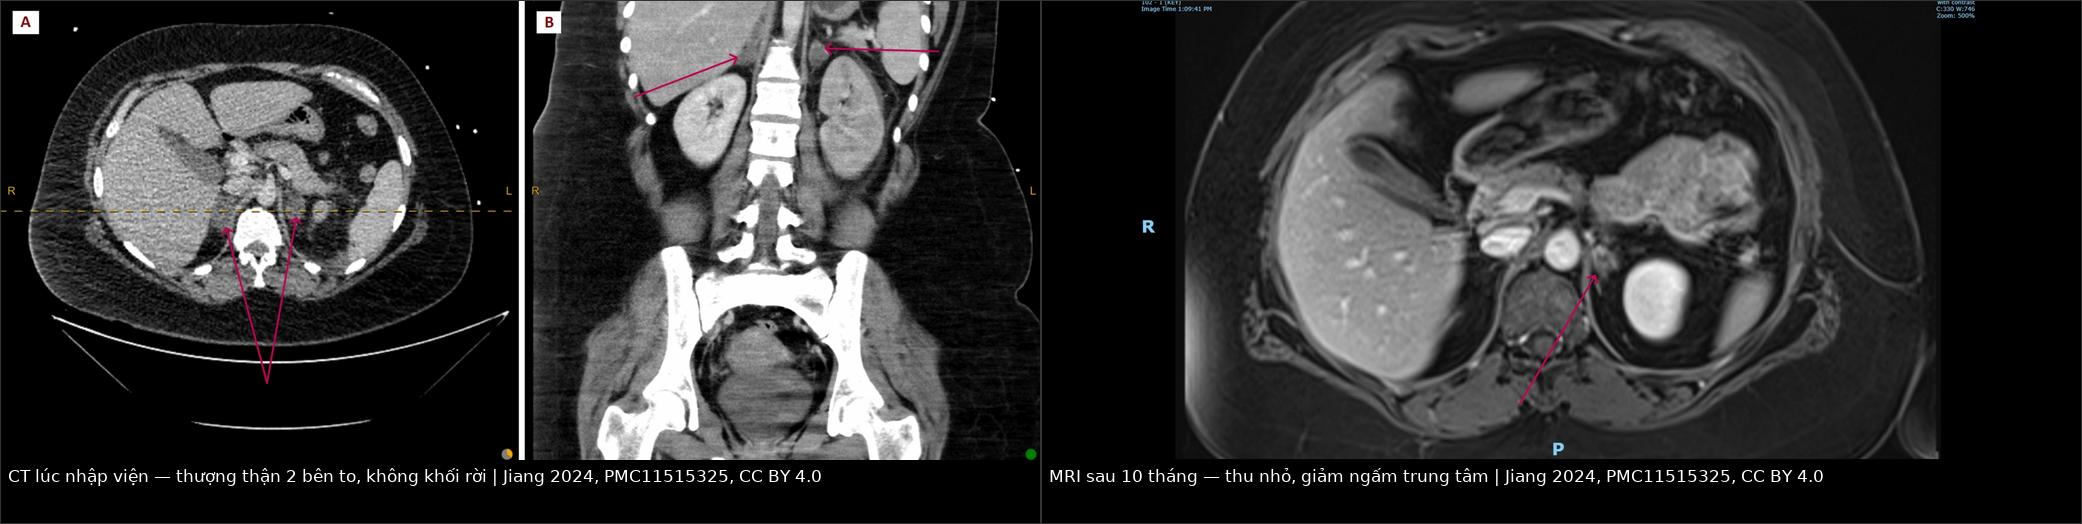
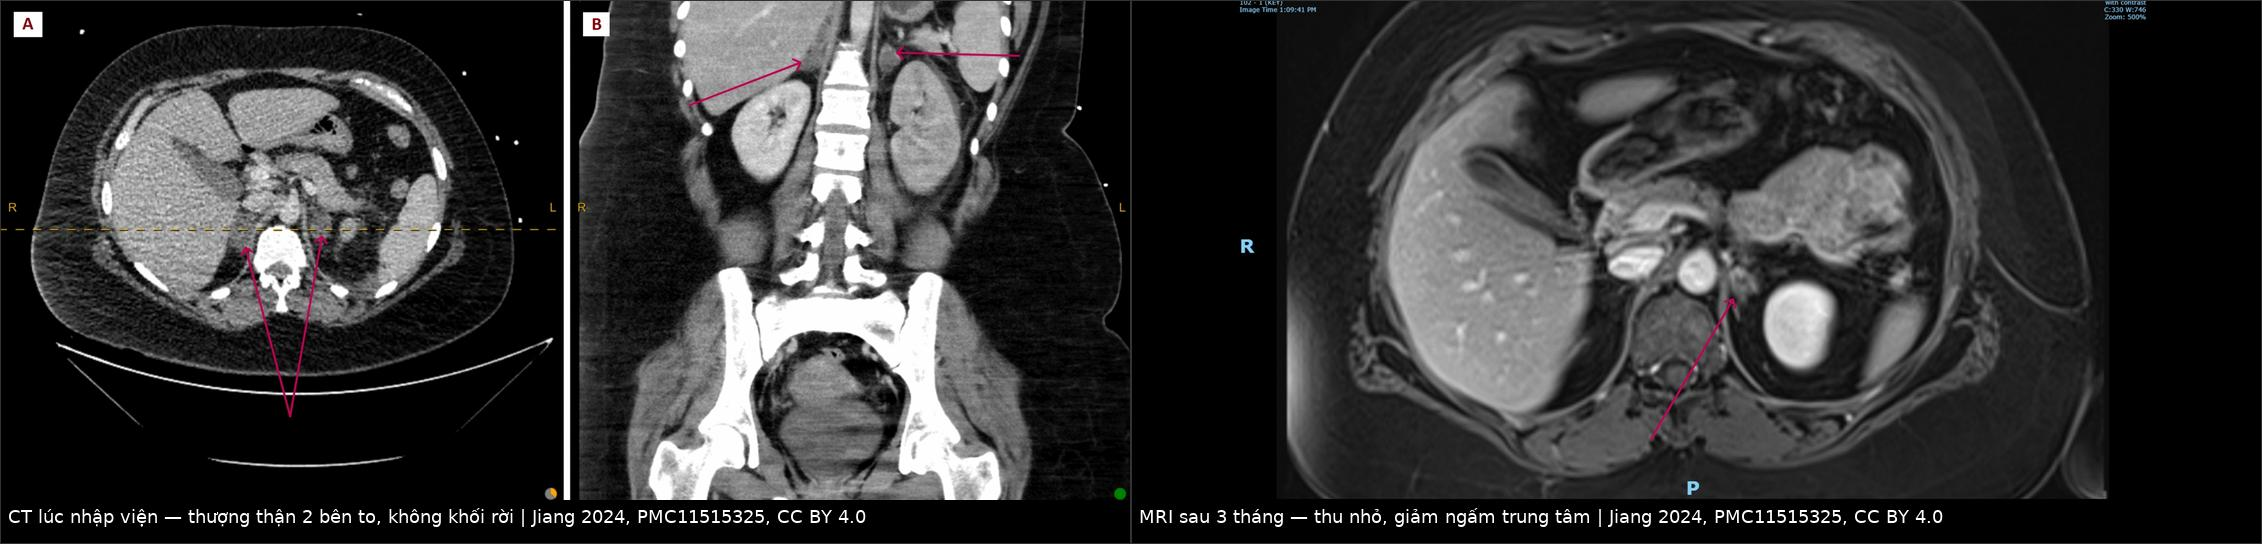
fix(1475): sửa số liệu theo nguồn — 6 ca tự phát chia đều 3 phải/3 trái; MRI theo dõi 3 tháng (không phải 10); vẽ lại composite

diff --git a/1475-xuat-huyet-thuong-than-hai-ben/index.html b/1475-xuat-huyet-thuong-than-hai-ben/index.html
@@ -1,5 +1,5 @@
 <!doctype html>
-<!-- lesson-sha256: c70722b7bd88fa4745af398668e81f858cef3f2b7ee84a96a90b3d7f9546653b -->
+<!-- lesson-sha256: 3c0accbc5233053de7b3ee017b10f2950bfe09a8b9d541ef8f2815c59a997c14 -->
 <html lang="vi">
 <head>
 <meta charset="utf-8">
@@ -74,7 +74,7 @@ Bài chốt <strong>bốn con số</strong>: <strong>(1)</strong> máu tụ cấ
 <ul>
 <li><strong>Cấu trúc mạch máu bất đối xứng:</strong> tuyến chỉ <strong>4–6 g</strong> nhưng nhận <strong>ba nguồn động mạch</strong> — <strong>động mạch thượng thận trên</strong> (từ động mạch hoành dưới), <strong>giữa</strong> (trực tiếp từ động mạch chủ), <strong>dưới</strong> (từ động mạch thận) — mỗi nguồn chia <strong>50–60 nhánh</strong> đổ vào vỏ tuyến xốp. Trong khi đó <strong>chỉ có MỘT tĩnh mạch trung tâm</strong> thoát máu: bên phải đổ <strong>trực tiếp vào tĩnh mạch chủ dưới</strong> bằng một đoạn rất ngắn, bên trái đổ vào <strong>tĩnh mạch thận trái</strong>.</li>
 <li><strong>TẠI SAO hệ thống này dễ vỡ:</strong> lưu lượng vào lớn, lưu lượng ra qua một ống nhỏ → khoang giữa mao mạch và tĩnh mạch là &quot;đập thủy lợi&quot;. Khi <strong>áp lực tĩnh mạch chủ dưới tăng</strong> (thở máy áp lực cao, suy tim phải, chèn ép), khi <strong>tĩnh mạch thận bị huyết khối</strong>, hoặc khi <strong>vi huyết khối trong DIC</strong> bịt mao mạch, máu ứ lại trong tủy → <strong>nhồi máu xuất huyết</strong> (hemorrhagic infarction), không phải &quot;vỡ mạch đơn thuần&quot;.</li>
-<li><strong>TẠI SAO bên phải nhiều hơn:</strong> thượng thận phải <strong>kẹp giữa gan và cột sống</strong>, tĩnh mạch ngắn đổ thẳng vào tĩnh mạch chủ dưới → chịu <strong>tăng áp tĩnh mạch đột ngột</strong> và lực <strong>cắt (shear)</strong> khi giảm tốc rõ hơn bên trái. Loạt đa chấn thương: <strong>77% máu tụ một bên ở bên phải</strong> (PMC12464106); loạt xuất huyết tự phát: <strong>4/6 ca</strong> (PMC6383530).</li>
+<li><strong>TẠI SAO bên phải nhiều hơn:</strong> thượng thận phải <strong>kẹp giữa gan và cột sống</strong>, tĩnh mạch ngắn đổ thẳng vào tĩnh mạch chủ dưới → chịu <strong>tăng áp tĩnh mạch đột ngột</strong> và lực <strong>cắt (shear)</strong> khi giảm tốc rõ hơn bên trái. Loạt đa chấn thương: <strong>77% máu tụ một bên ở bên phải</strong> (PMC12464106). <strong>Phản biện:</strong> ưu thế phải <strong>không áp dụng cho nhóm tự phát</strong> — loạt 6 ca xuất huyết tự phát chia đều <strong>3 phải/3 trái</strong>, tất cả một bên, đường kính tới <strong>12,2 cm</strong>, mật độ <strong>45–70 HU</strong>, không ngấm thuốc, không vôi hóa (PMC6383530).</li>
 <li><strong>TẠI SAO hai bên mới gây suy thượng thận:</strong> vỏ thượng thận có <strong>dự trữ chức năng rất lớn</strong> — cắt một bên hoặc xuất huyết một bên <strong>hầu như không gây suy</strong>; phải phá hủy <strong>phần lớn cả hai vỏ</strong> mới làm cortisol tụt. Đây là lý do <strong>hình ảnh một bên không được phép kết luận suy thượng thận</strong>, còn <strong>hai bên + sốc</strong> thì phải điều trị ngay.</li>
 </ul>
 <h3 id="1-2-vi-sao-cuc-mau-tu-quot-tang-dam-do-ma-khong-ngam-thuoc-q">1.2 Vì sao cục máu tụ &quot;tăng đậm độ mà không ngấm thuốc&quot; — vật lý của HU</h3>
@@ -171,8 +171,8 @@ Bài chốt <strong>bốn con số</strong>: <strong>(1)</strong> máu tụ cấ
 <td>IGRA/PCR, MRI</td>
 </tr>
 </tbody></table>
-<p><img loading="lazy" decoding="async" src="https://img.matcauvong.com/1475-xuat-huyet-thuong-than-hai-ben/images/composite_1475_bah-cao-mau.jpg" alt="CT lúc nhập viện (trái) và MRI sau 10 tháng (phải) của cùng một ca BAH sau sinh">
-<em>Trái: hai thượng thận to, không có khối rời — hình &quot;adreniform&quot; điển hình của xuất huyết. Phải: sau 10 tháng tuyến nhỏ lại, giảm ngấm trung tâm (còn di chứng xuất huyết). Nguồn: J Med Case Rep 2024 (PMC11515325), CC BY 4.0; ảnh ghép letterbox bằng <code>tools/make_composite.py</code>.</em></p>
+<p><img loading="lazy" decoding="async" src="https://img.matcauvong.com/1475-xuat-huyet-thuong-than-hai-ben/images/composite_1475_bah-cao-mau.jpg" alt="CT lúc nhập viện (trái) và MRI sau 3 tháng (phải) của cùng một ca BAH sau sinh">
+<em>Trái: hai thượng thận to, không có khối rời — hình &quot;adreniform&quot; điển hình của xuất huyết. Phải: sau <strong>3 tháng</strong> tuyến nhỏ lại/teo, còn giảm ngấm trung tâm (di chứng xuất huyết). Nguồn: J Med Case Rep 2024 (PMC11515325), CC BY 4.0; ảnh ghép letterbox bằng <code>tools/make_composite.py</code>.</em></p>
 <ul>
 <li><strong>Đọc HU đúng cách:</strong> đặt ROI (vùng quan tâm) ở <strong>phần đặc nhất</strong>, tránh viền vỏ và mỡ quanh; đo <strong>cả hai bên</strong>, ghi <strong>HU + kích thước 3 chiều</strong>; nếu <strong>10–40 HU</strong> thì phải làm <strong>MRI hoặc chụp lại 6–12 tuần</strong>, không kết luận.</li>
 <li><strong>Đọc &quot;không ngấm&quot; đúng cách:</strong> so <strong>cùng một ROI</strong> giữa thì trước tiêm và thì cửa/muộn; <strong>tăng &lt; 10 HU** được coi là không ngấm; **tăng &gt; 20 HU</strong> là mô sống.</li>
@@ -231,8 +231,8 @@ Bài chốt <strong>bốn con số</strong>: <strong>(1)</strong> máu tụ cấ
 <li>Phản biện: <strong>thoát mạch đơn thuần chưa đủ chỉ định</strong> — trong loạt này chỉ định dựa trên <strong>huyết động (MAP &lt; 70)</strong> và diễn tiến; có ca MAP ≥ 70 vẫn phải nút mạch muộn.</li>
 <li>Nguồn: CVIR Endovasc 2026 (PMC13469033), CC BY 4.0.</details></li>
 </ul>
-<p><strong>Ca 2 — Nữ 27 tuổi, 17 ngày sau sinh, sốt và đau hông lưng, tụt áp tư thế. Nhìn CT rồi ghép với MRI sau 10 tháng.</strong></p>
-<p><img loading="lazy" decoding="async" src="https://img.matcauvong.com/1475-xuat-huyet-thuong-than-hai-ben/images/composite_1475_bah-cao-mau.jpg" alt="Ca 2 — CT lúc nhập viện và MRI sau 10 tháng"></p>
+<p><strong>Ca 2 — Nữ 27 tuổi, 17 ngày sau sinh, sốt và đau hông lưng, tụt áp tư thế. Nhìn CT rồi ghép với MRI sau 3 tháng.</strong></p>
+<p><img loading="lazy" decoding="async" src="https://img.matcauvong.com/1475-xuat-huyet-thuong-than-hai-ben/images/composite_1475_bah-cao-mau.jpg" alt="Ca 2 — CT lúc nhập viện và MRI sau 3 tháng"></p>
 <ul>
 <li>Gợi ý: sau sinh, có huyết khối tĩnh mạch thận trái và thuyên tắc phổi; CT đầu tiên được đọc là &quot;thượng thận to không rõ nguyên nhân&quot;.</li>
 <li>Câu hỏi: vì sao <strong>không có khối rời</strong> mà vẫn là xuất huyết? Cần xét nghiệm gì trước khi truyền hydrocortison?</li>
@@ -240,7 +240,7 @@ Bài chốt <strong>bốn con số</strong>: <strong>(1)</strong> máu tụ cấ
 <details><summary><b>Bấm để hiện đáp án (findings + chẩn đoán)</b></summary>
 
 <ul>
-<li>Dấu hiệu: <strong>hai thượng thận to giữ hình tuyến, không có khối tròn</strong>; MRI sau 10 tháng: <strong>tuyến nhỏ lại, giảm ngấm trung tâm</strong> — phù hợp <strong>máu tụ tiêu dần</strong> chứ không phải u.</li>
+<li>Dấu hiệu: <strong>hai thượng thận to giữ hình tuyến, không có khối tròn</strong>; MRI sau 3 tháng: <strong>tuyến nhỏ lại/teo, còn giảm ngấm trung tâm</strong> — phù hợp <strong>máu tụ tiêu dần</strong> chứ không phải u.</li>
 <li>Chẩn đoán: <strong>xuất huyết thượng thận hai bên sau sinh, kèm huyết khối tĩnh mạch thận và suy thượng thận nguyên phát</strong>.</li>
 <li>Vì sao: tăng áp tĩnh mạch + tăng đông sau sinh làm <strong>nhồi máu xuất huyết</strong> cả hai tuyến; hình &quot;adreniform&quot; là dấu chốt, không cần khối.</li>
 <li>Xét nghiệm: <strong>cortisol sáng + ACTH trước liều hydrocortison</strong> nếu huyết động cho phép; sau đó <strong>Synacthen</strong> xác nhận; theo dõi <strong>3–6 tháng/lần trong 2 năm</strong>.</li>

diff --git a/1475-xuat-huyet-thuong-than-hai-ben/lesson.md b/1475-xuat-huyet-thuong-than-hai-ben/lesson.md
@@ -23,7 +23,7 @@ research_asof: "2026-11"
 
 - **Cấu trúc mạch máu bất đối xứng:** tuyến chỉ **4–6 g** nhưng nhận **ba nguồn động mạch** — **động mạch thượng thận trên** (từ động mạch hoành dưới), **giữa** (trực tiếp từ động mạch chủ), **dưới** (từ động mạch thận) — mỗi nguồn chia **50–60 nhánh** đổ vào vỏ tuyến xốp. Trong khi đó **chỉ có MỘT tĩnh mạch trung tâm** thoát máu: bên phải đổ **trực tiếp vào tĩnh mạch chủ dưới** bằng một đoạn rất ngắn, bên trái đổ vào **tĩnh mạch thận trái**.
 - **TẠI SAO hệ thống này dễ vỡ:** lưu lượng vào lớn, lưu lượng ra qua một ống nhỏ → khoang giữa mao mạch và tĩnh mạch là "đập thủy lợi". Khi **áp lực tĩnh mạch chủ dưới tăng** (thở máy áp lực cao, suy tim phải, chèn ép), khi **tĩnh mạch thận bị huyết khối**, hoặc khi **vi huyết khối trong DIC** bịt mao mạch, máu ứ lại trong tủy → **nhồi máu xuất huyết** (hemorrhagic infarction), không phải "vỡ mạch đơn thuần".
-- **TẠI SAO bên phải nhiều hơn:** thượng thận phải **kẹp giữa gan và cột sống**, tĩnh mạch ngắn đổ thẳng vào tĩnh mạch chủ dưới → chịu **tăng áp tĩnh mạch đột ngột** và lực **cắt (shear)** khi giảm tốc rõ hơn bên trái. Loạt đa chấn thương: **77% máu tụ một bên ở bên phải** (PMC12464106); loạt xuất huyết tự phát: **4/6 ca** (PMC6383530).
+- **TẠI SAO bên phải nhiều hơn:** thượng thận phải **kẹp giữa gan và cột sống**, tĩnh mạch ngắn đổ thẳng vào tĩnh mạch chủ dưới → chịu **tăng áp tĩnh mạch đột ngột** và lực **cắt (shear)** khi giảm tốc rõ hơn bên trái. Loạt đa chấn thương: **77% máu tụ một bên ở bên phải** (PMC12464106). **Phản biện:** ưu thế phải **không áp dụng cho nhóm tự phát** — loạt 6 ca xuất huyết tự phát chia đều **3 phải/3 trái**, tất cả một bên, đường kính tới **12,2 cm**, mật độ **45–70 HU**, không ngấm thuốc, không vôi hóa (PMC6383530).
 - **TẠI SAO hai bên mới gây suy thượng thận:** vỏ thượng thận có **dự trữ chức năng rất lớn** — cắt một bên hoặc xuất huyết một bên **hầu như không gây suy**; phải phá hủy **phần lớn cả hai vỏ** mới làm cortisol tụt. Đây là lý do **hình ảnh một bên không được phép kết luận suy thượng thận**, còn **hai bên + sốc** thì phải điều trị ngay.
 
 ### 1.2 Vì sao cục máu tụ "tăng đậm độ mà không ngấm thuốc" — vật lý của HU
@@ -66,8 +66,8 @@ Mẫu hình cần nhận: **tuyến thượng thận to, giữ hình "thượng 
 | **Nhồi máu thượng thận** | Không ngấm, **< 40 HU**, hình nêm/không đều; bối cảnh APS, sốc | **Không ngấm + mật độ thấp + bối cảnh huyết khối** | **≥ 40 HU** → xuất huyết | MRI T1 (máu), CTA tĩnh mạch thận/thượng thận |
 | **Lao thượng thận** | Hai bên, **vôi hóa**, teo dần, có thể to giai đoạn đầu | **Vôi hóa hai bên + teo + bối cảnh lao** | **Máu tụ cấp ≥ 40 HU, không vôi hóa** | IGRA/PCR, MRI |
 
-![CT lúc nhập viện (trái) và MRI sau 10 tháng (phải) của cùng một ca BAH sau sinh](images/composite_1475_bah-cao-mau.jpg)
-*Trái: hai thượng thận to, không có khối rời — hình "adreniform" điển hình của xuất huyết. Phải: sau 10 tháng tuyến nhỏ lại, giảm ngấm trung tâm (còn di chứng xuất huyết). Nguồn: J Med Case Rep 2024 (PMC11515325), CC BY 4.0; ảnh ghép letterbox bằng `tools/make_composite.py`.*
+![CT lúc nhập viện (trái) và MRI sau 3 tháng (phải) của cùng một ca BAH sau sinh](images/composite_1475_bah-cao-mau.jpg)
+*Trái: hai thượng thận to, không có khối rời — hình "adreniform" điển hình của xuất huyết. Phải: sau **3 tháng** tuyến nhỏ lại/teo, còn giảm ngấm trung tâm (di chứng xuất huyết). Nguồn: J Med Case Rep 2024 (PMC11515325), CC BY 4.0; ảnh ghép letterbox bằng `tools/make_composite.py`.*
 
 - **Đọc HU đúng cách:** đặt ROI (vùng quan tâm) ở **phần đặc nhất**, tránh viền vỏ và mỡ quanh; đo **cả hai bên**, ghi **HU + kích thước 3 chiều**; nếu **10–40 HU** thì phải làm **MRI hoặc chụp lại 6–12 tuần**, không kết luận.
 - **Đọc "không ngấm" đúng cách:** so **cùng một ROI** giữa thì trước tiêm và thì cửa/muộn; **tăng < 10 HU** được coi là không ngấm; **tăng > 20 HU** là mô sống.
@@ -131,16 +131,16 @@ flowchart TD
 - Nguồn: CVIR Endovasc 2026 (PMC13469033), CC BY 4.0.
 </details>
 
-**Ca 2 — Nữ 27 tuổi, 17 ngày sau sinh, sốt và đau hông lưng, tụt áp tư thế. Nhìn CT rồi ghép với MRI sau 10 tháng.**
+**Ca 2 — Nữ 27 tuổi, 17 ngày sau sinh, sốt và đau hông lưng, tụt áp tư thế. Nhìn CT rồi ghép với MRI sau 3 tháng.**
 
-![Ca 2 — CT lúc nhập viện và MRI sau 10 tháng](images/composite_1475_bah-cao-mau.jpg)
+![Ca 2 — CT lúc nhập viện và MRI sau 3 tháng](images/composite_1475_bah-cao-mau.jpg)
 
 - Gợi ý: sau sinh, có huyết khối tĩnh mạch thận trái và thuyên tắc phổi; CT đầu tiên được đọc là "thượng thận to không rõ nguyên nhân".
 - Câu hỏi: vì sao **không có khối rời** mà vẫn là xuất huyết? Cần xét nghiệm gì trước khi truyền hydrocortison?
 
 <details><summary><b>Bấm để hiện đáp án (findings + chẩn đoán)</b></summary>
 
-- Dấu hiệu: **hai thượng thận to giữ hình tuyến, không có khối tròn**; MRI sau 10 tháng: **tuyến nhỏ lại, giảm ngấm trung tâm** — phù hợp **máu tụ tiêu dần** chứ không phải u.
+- Dấu hiệu: **hai thượng thận to giữ hình tuyến, không có khối tròn**; MRI sau 3 tháng: **tuyến nhỏ lại/teo, còn giảm ngấm trung tâm** — phù hợp **máu tụ tiêu dần** chứ không phải u.
 - Chẩn đoán: **xuất huyết thượng thận hai bên sau sinh, kèm huyết khối tĩnh mạch thận và suy thượng thận nguyên phát**.
 - Vì sao: tăng áp tĩnh mạch + tăng đông sau sinh làm **nhồi máu xuất huyết** cả hai tuyến; hình "adreniform" là dấu chốt, không cần khối.
 - Xét nghiệm: **cortisol sáng + ACTH trước liều hydrocortison** nếu huyết động cho phép; sau đó **Synacthen** xác nhận; theo dõi **3–6 tháng/lần trong 2 năm**.

diff --git a/1475-xuat-huyet-thuong-than-hai-ben/sources.md b/1475-xuat-huyet-thuong-than-hai-ben/sources.md
@@ -6,9 +6,9 @@ Thu thập theo `AGENTS.md`: chỉ dùng nguồn mở truy cập được, ghi r
 
 1. **Tổng quan BAH trong SLE/APS (2025)** — *Cureus* 2025, DOI 10.7759/cureus.98743, PMCID **PMC12779288**, CC BY 4.0. Số liệu dùng: cơ chế **"vascular dam"** (3 động mạch – 1 tĩnh mạch trung tâm); **0,4%** bệnh nhân APS phát triển suy thượng thận nguyên phát, **10–26%** trong APS thể bão táp; xử trí **hydrocortison 100 mg TM rồi 50–100 mg mỗi 6–8 giờ**, NaCl 0,9%, fludrocortison; **warfarin INR 2–3 ưu tiên hơn DOAC** ở APS ba kháng thể dương; theo dõi **cortisol/ACTH 3–6 tháng/lần trong 2 năm đầu, sau đó hằng năm**; phần lớn sống sót **phải thay thế hormone suốt đời**.
 2. **Đoàn hệ CT 1.373 ca đa chấn thương (2025)** — *Endocrine* 2025, DOI 10.1007/s12020-025-04321-9, PMCID **PMC12464106**, CC BY 4.0. Số liệu dùng: **máu tụ thượng thận 5,0%** (68/1.373; **10% hai bên**, **77% bên phải**); tổn thương dạng u **2,7%** (37/1.373); **chỉ 27%** tổn thương dạng u và **58%** máu tụ một bên được nhắc trong báo cáo (**42% máu tụ một bên không được báo cáo**); theo dõi trung bình **75 tháng**, **không ca nào phải mổ**, **6%** được xét hormone.
-3. **Loạt 6 ca xuất huyết thượng thận tự phát có HU (2019)** — *Radiologia Brasileira* 2019, DOI 10.1590/0100-3984.2018.0041, PMCID **PMC6383530**, CC BY-NC-ND 4.0. Số liệu dùng: định nghĩa **xuất huyết = mật độ trước tiêm ≥ 40 HU HOẶC không ngấm thuốc sau tiêm**; các ca đo **65 HU**, **45 HU**, **53 HU**; **4/6 ca bên phải**; MRI/CT theo dõi.
+3. **Loạt 6 ca xuất huyết thượng thận tự phát có HU (2019)** — *Radiologia Brasileira* 2019, DOI 10.1590/0100-3984.2018.0041, PMCID **PMC6383530**, CC BY-NC-ND 4.0. Số liệu dùng: định nghĩa **xuất huyết = mật độ trước tiêm ≥ 40 HU HOẶC không ngấm thuốc sau tiêm**; mật độ **45–70 HU**, đường kính tới **12,2 cm**, không vôi hóa; **6 ca đều MỘT bên, chia đều 3 phải/3 trái** (không có ưu thế bên phải trong nhóm tự phát); MRI/CT theo dõi.
 4. **Loạt 8 ca nút mạch do chấn thương + tổng quan (2026)** — *CVIR Endovascular* 2026, DOI 10.1186/s42155-026-00756-x, PMCID **PMC13469033**, CC BY 4.0. Số liệu dùng: tổn thương thượng thận do chấn thương **0,5–4%** ca nhập viện nhưng **tới 26%** ca tử vong do chấn thương ngực–bụng nặng (mổ tử thi); tử vong **10–33%**; cơ chế **chèn ép – tăng áp tĩnh mạch chủ dưới – huyết khối – lực cắt**; **thoát mạch + MAP < 70 mmHg** là ngưỡng can thiệp được nhắc nhiều nhất nhưng **có ca MAP ≥ 70 mmHg vẫn phải nút mạch muộn**; biến thiên giải phẫu động mạch thượng thận.
-5. **Ca BAH sau sinh có CT + MRI theo dõi (2024)** — *Journal of Medical Case Reports* 2024, DOI 10.1186/s13256-024-04834-3, PMCID **PMC11515325**, CC BY 4.0. Số liệu dùng: nữ **27 tuổi**, **17 ngày sau sinh**, thượng thận hai bên **to không có khối rời**, kèm **huyết khối tĩnh mạch thận trái** và thuyên tắc phổi; chẩn đoán ban đầu bị bỏ qua; **hydrocortison TM** rồi thay thế uống + chống đông; MRI sau **10 tháng** giảm ngấm trung tâm.
+5. **Ca BAH sau sinh có CT + MRI theo dõi (2024)** — *Journal of Medical Case Reports* 2024, DOI 10.1186/s13256-024-04834-3, PMCID **PMC11515325**, CC BY 4.0. Số liệu dùng: nữ **27 tuổi**, **17 ngày sau sinh**, thượng thận hai bên **to không có khối rời**, kèm **huyết khối tĩnh mạch thận trái** và thuyên tắc phổi; chẩn đoán ban đầu bị bỏ qua; **hydrocortison TM** rồi thay thế uống + chống đông; MRI theo dõi sau **3 tháng** thấy tuyến nhỏ lại/teo, còn giảm ngấm trung tâm (Fig. 3).
 6. **Ca BAH 76 tuổi — máu tụ tiêu nhưng chức năng không hồi phục (2020)** — *Cureus* 2020, DOI 10.7759/cureus.8596, PMCID **PMC7294864**, CC BY 4.0. Số liệu dùng: CT xác nhận hai bên; cortisol thấp không phù hợp với stress; **CT lặp sau 10 tháng thấy máu tụ tiêu** nhưng **chức năng thượng thận vẫn suy**.
 7. **Ca BAH do COVID-19 có Synacthen bình thường (2020)** — *BMJ Case Reports* 2020, DOI 10.1136/bcr-2020-239643, PMCID **PMC7705581**. Dùng làm **phản biện**: không phải mọi BAH đều gây suy thượng thận.
 8. **WFS sau vết cắn chó ở người cắt lách (2023)** — *International Journal of Emergency Medicine* 2023, DOI 10.1186/s12245-023-00483-3, PMCID **PMC9947879**, CC BY 4.0. Số liệu dùng: WFS = sốc nhiễm khuẩn + DIC + xuất huyết thượng thận hai bên; tác nhân **Capnocytophaga canimorsus**; liên hệ **MALS**.

diff --git a/1475-xuat-huyet-thuong-than-hai-ben/images/CREDITS.md b/1475-xuat-huyet-thuong-than-hai-ben/images/CREDITS.md
@@ -15,5 +15,5 @@ Mỗi ảnh ghi rõ: file trong repo, hình gốc, bài gốc (PMCID/DOI), giấ
 - Bốn ảnh từ **PMC13469033** và **PMC11515325** là **CC BY 4.0** → được dùng và tạo phái sinh, kèm ghi công.
 - Ảnh mô học Wikimedia là **CC BY-SA 4.0** → **không** đưa vào ảnh ghép có giấy phép khác; hiển thị **nguyên bản**.
 - Ảnh CT của **PMC13469033** là ảnh **thang xám** do tạp chí xuất bản; không chuyển sang JPEG màu, không tăng tương phản.
-- Ảnh ghép dùng **cùng một bệnh nhân** ở hai thời điểm (lúc nhập viện và sau 10 tháng), không phải hai ca.
+- Ảnh ghép dùng **cùng một bệnh nhân** ở hai thời điểm (lúc nhập viện và MRI sau 3 tháng), không phải hai ca.
 - Đã đối chiếu trực tiếp trang bài gốc ngày **2026-11-24**; không bịa tên tác giả/niên đại.
